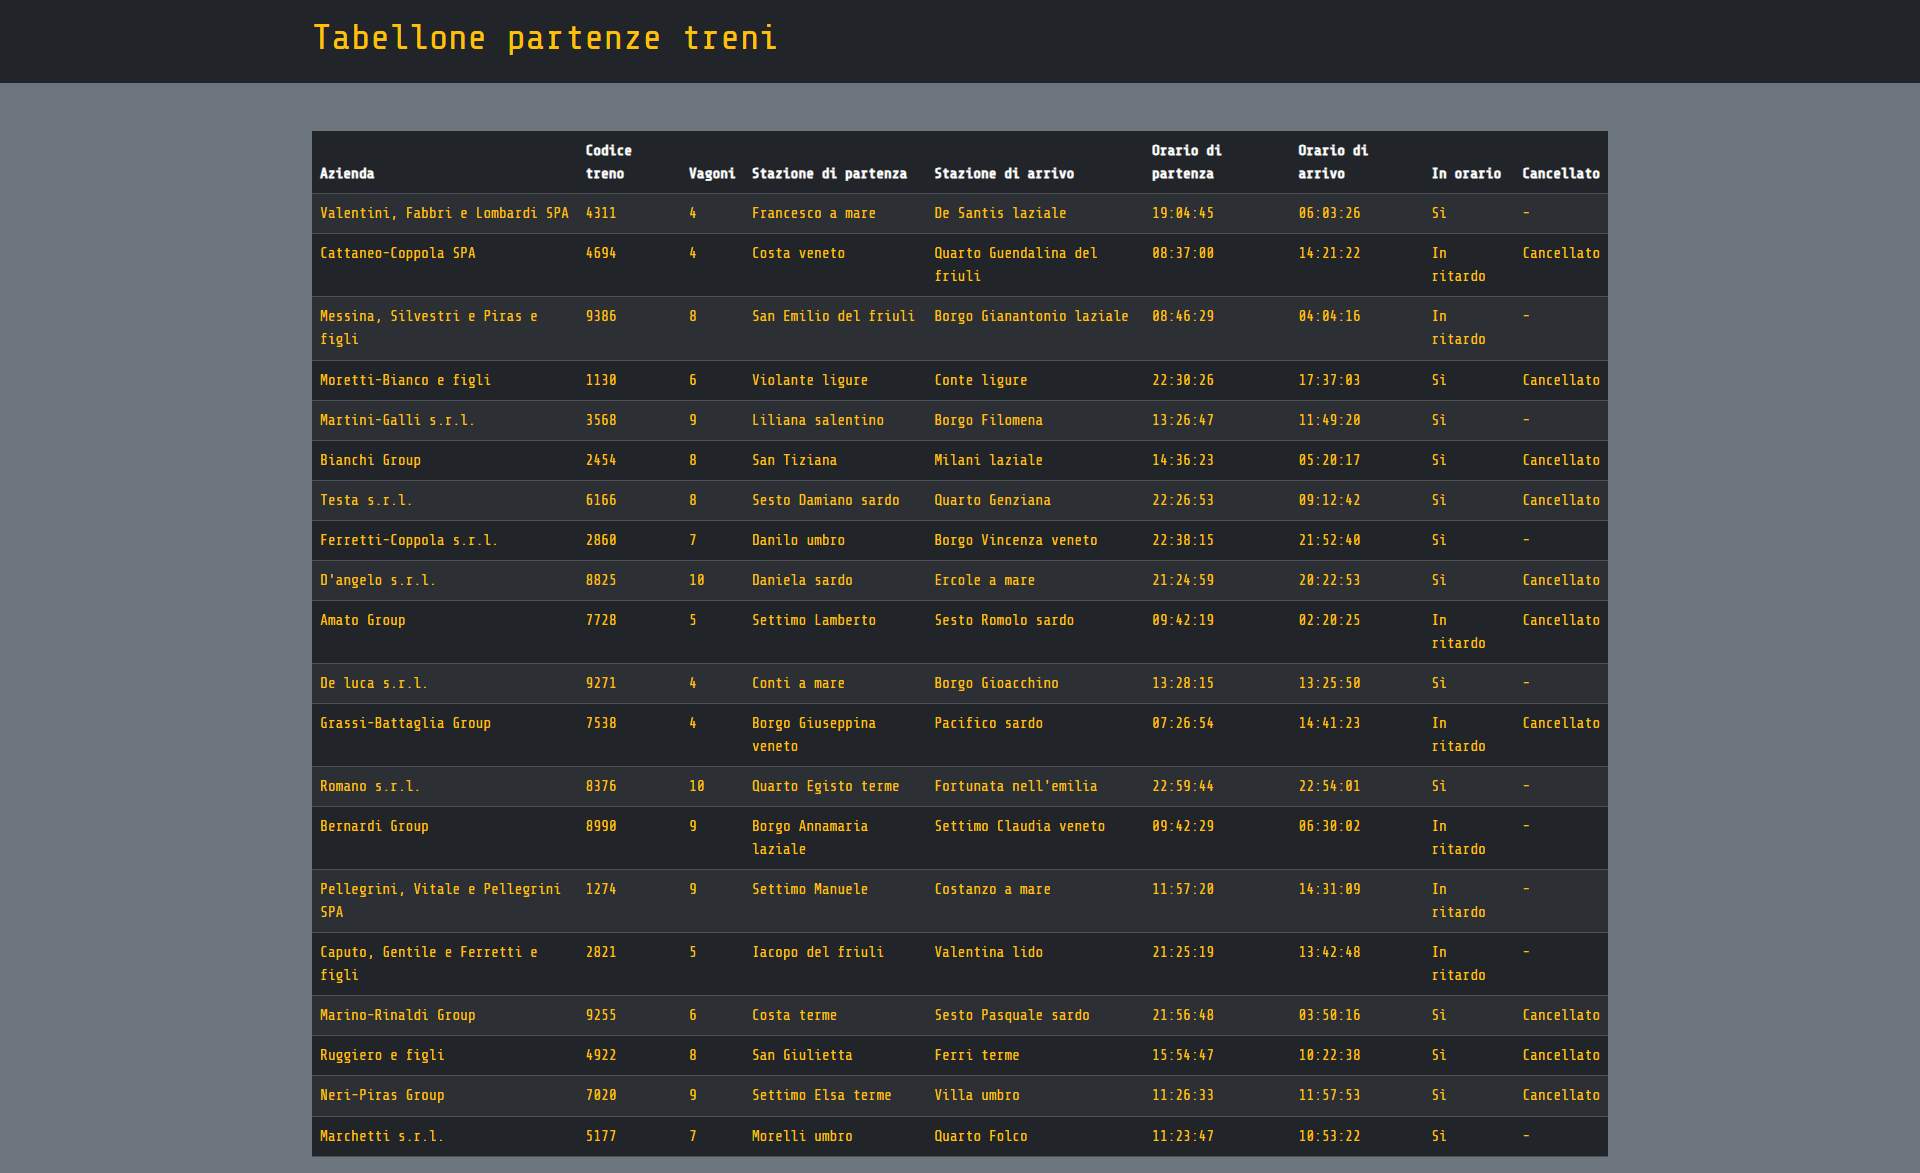
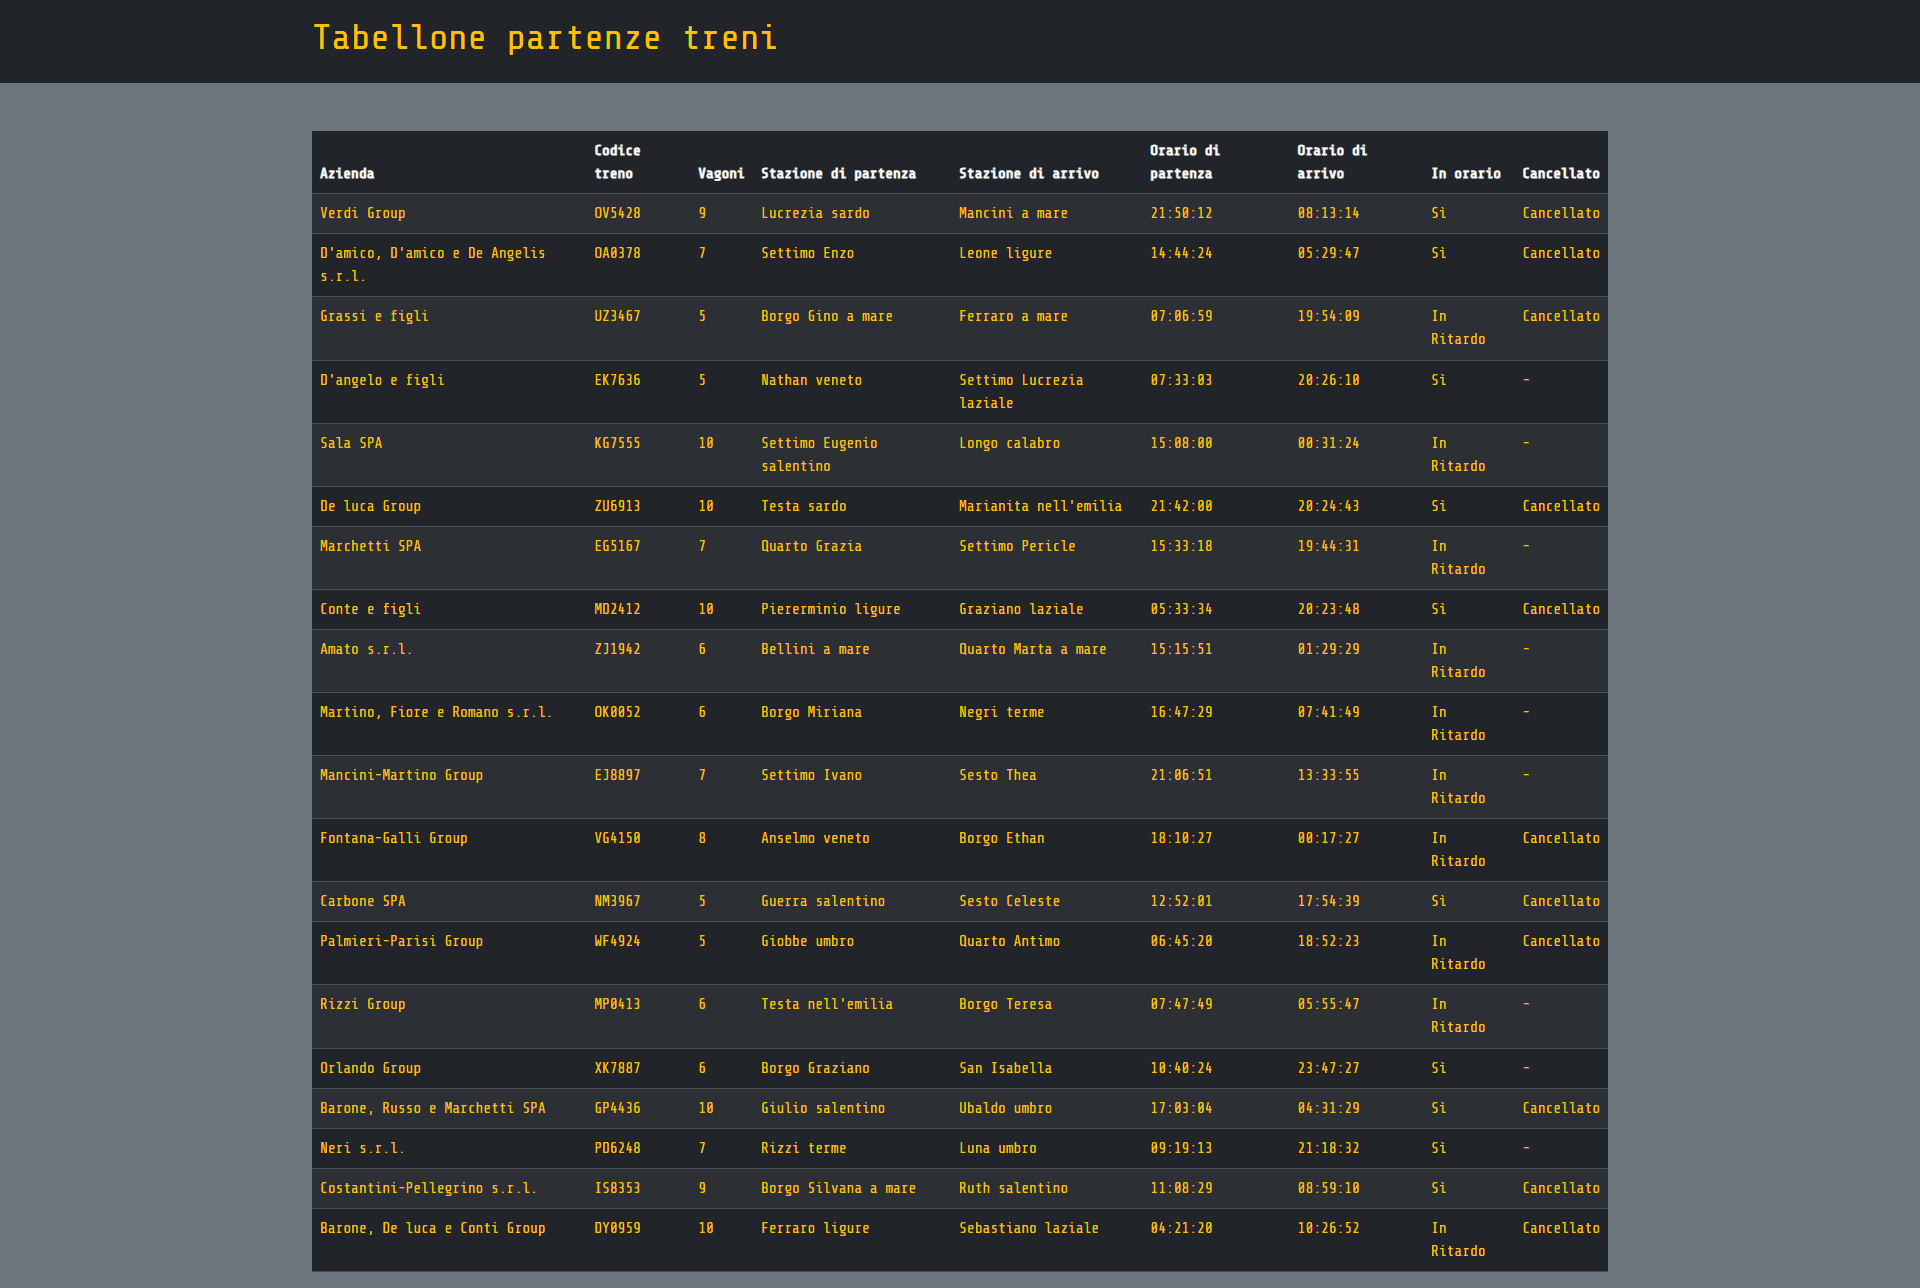
UPDATE: seeder

diff --git a/resources/views/trains.blade.php b/resources/views/trains.blade.php
@@ -58,20 +58,8 @@
                         <td>{{ $train->arrival_station }}</td>
                         <td>{{ $train->departure_time }}</td>
                         <td>{{ $train->arrival_time }}</td>
-                        <td>
-                            @if ($train->on_time === 1)
-                            Sì
-                            @elseif($train->on_time === 0)
-                            In ritardo
-                            @endif
-                        </td>
-                        <td>
-                            @if ($train->cancelled === 1)
-                            Cancellato
-                            @else
-                            -
-                            @endif
-                        </td>
+                        <td>{{ $train->on_time ? "Sì" : "In Ritardo" }}</td>
+                        <td>{{ $train->cancelled ? "Cancellato" : "-" }}</td>
                     </tr>
                     @endforeach
                 </tbody>

diff --git a/database/seeders/TrainsTableSeeder.php b/database/seeders/TrainsTableSeeder.php
@@ -23,7 +23,7 @@ class TrainsTableSeeder extends Seeder
 
             // popolo i campi
             $newTrain->company = $faker->company();
-            $newTrain->train_code = $faker->numberBetween(1000, 9999);
+            $newTrain->train_code = strtoupper($faker->bothify("??####"));
             $newTrain->carriages = $faker->numberBetween(4, 10);
             $newTrain->departure_station = $faker->city();
             $newTrain->arrival_station = $faker->city();
